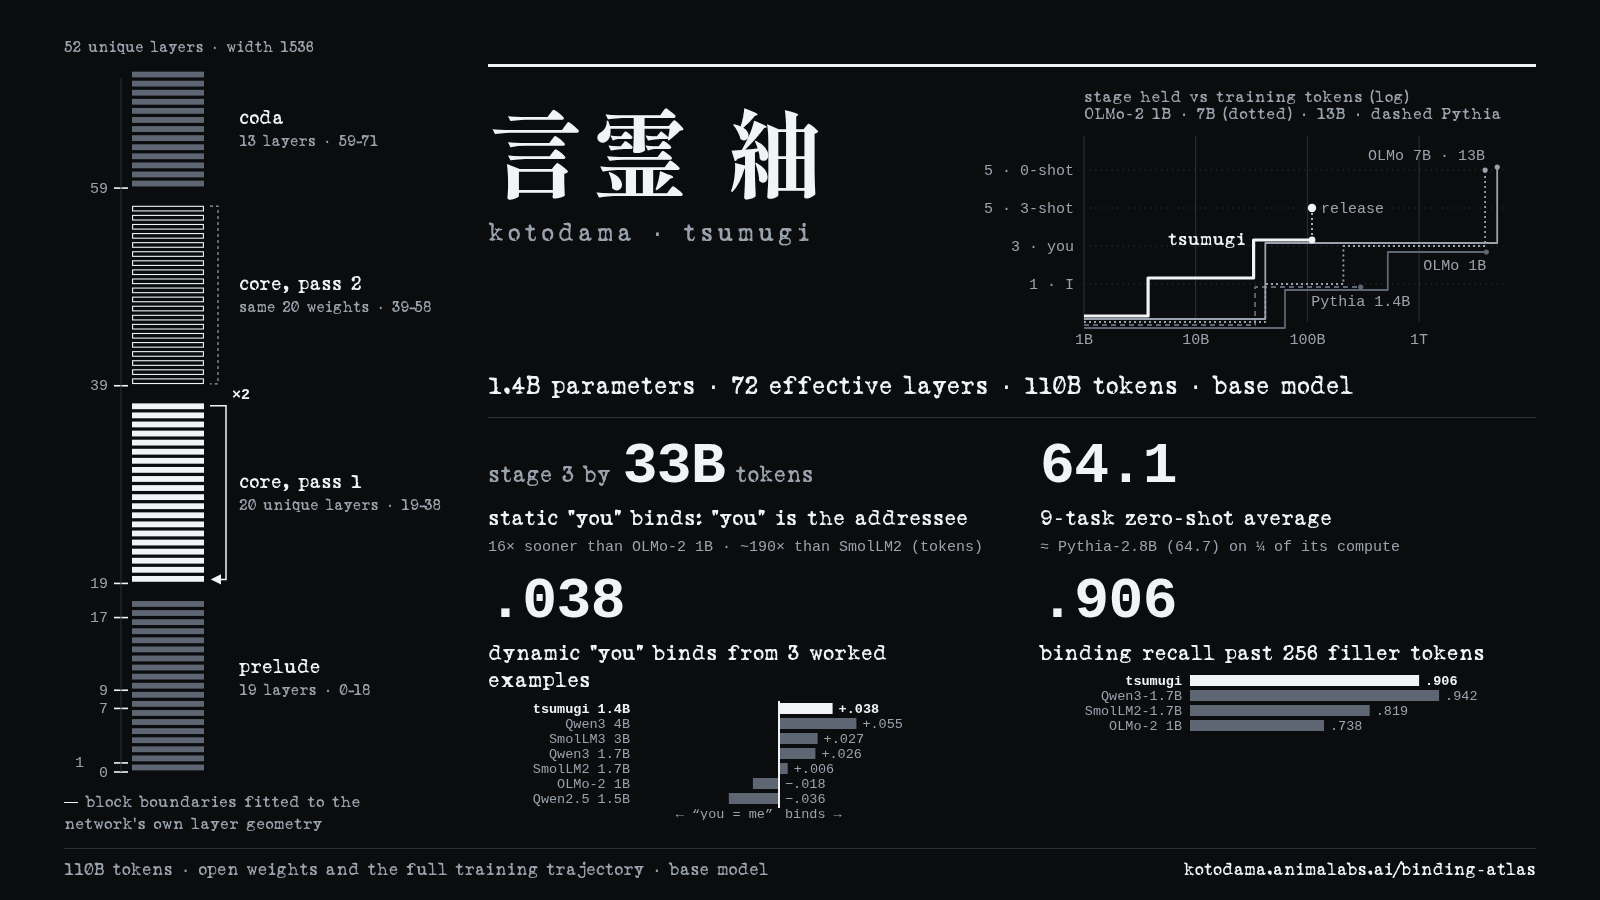
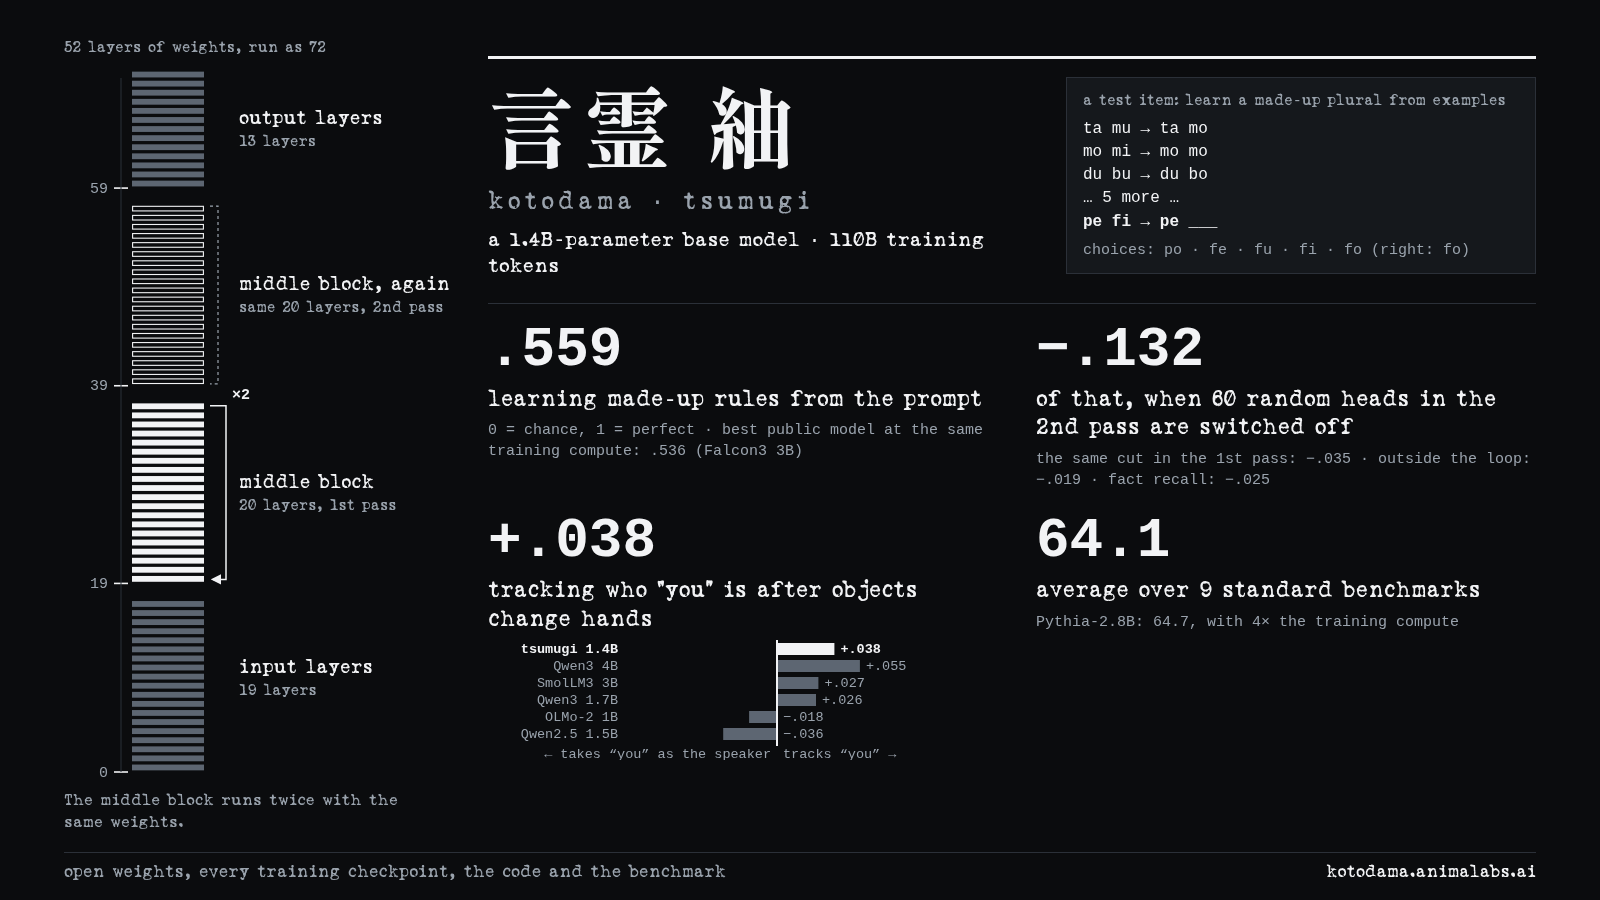
Announcement: card v3 (the loop tile names the 60 random 2nd-pass heads, and adds fact recall), as on HF 03a894d. Deploy build (stamp 2026-11-06 04:40 UTC); gates pass; live byte-identical
Claude-Session: https://claude.ai/code/session_01H3VSEPPyocimLV9Q4GkTH7

diff --git a/site/index.html b/site/index.html
@@ -517,7 +517,7 @@ document.querySelectorAll(".story-step").forEach(s => io.observe(s));
 </div>
 <footer><div class="wrap">
   <span>Companion pages: <a href="https://huggingface.co/LuxiaSL/kotodama-tsumugi-1b">the model card</a> · <a href="binding-atlas">Binding Atlas</a>, every model against every referent-binding test · <a href="threads">Threads</a>, inside kotodama-tsumugi · <a href="empty-document">An Empty Document</a>.</span>
-  <span class="num" id="stamp">build 2026-11-06 04:24 UTC</span>
+  <span class="num" id="stamp">build 2026-11-06 04:40 UTC</span>
 </div></footer>
 </body>
 </html>
